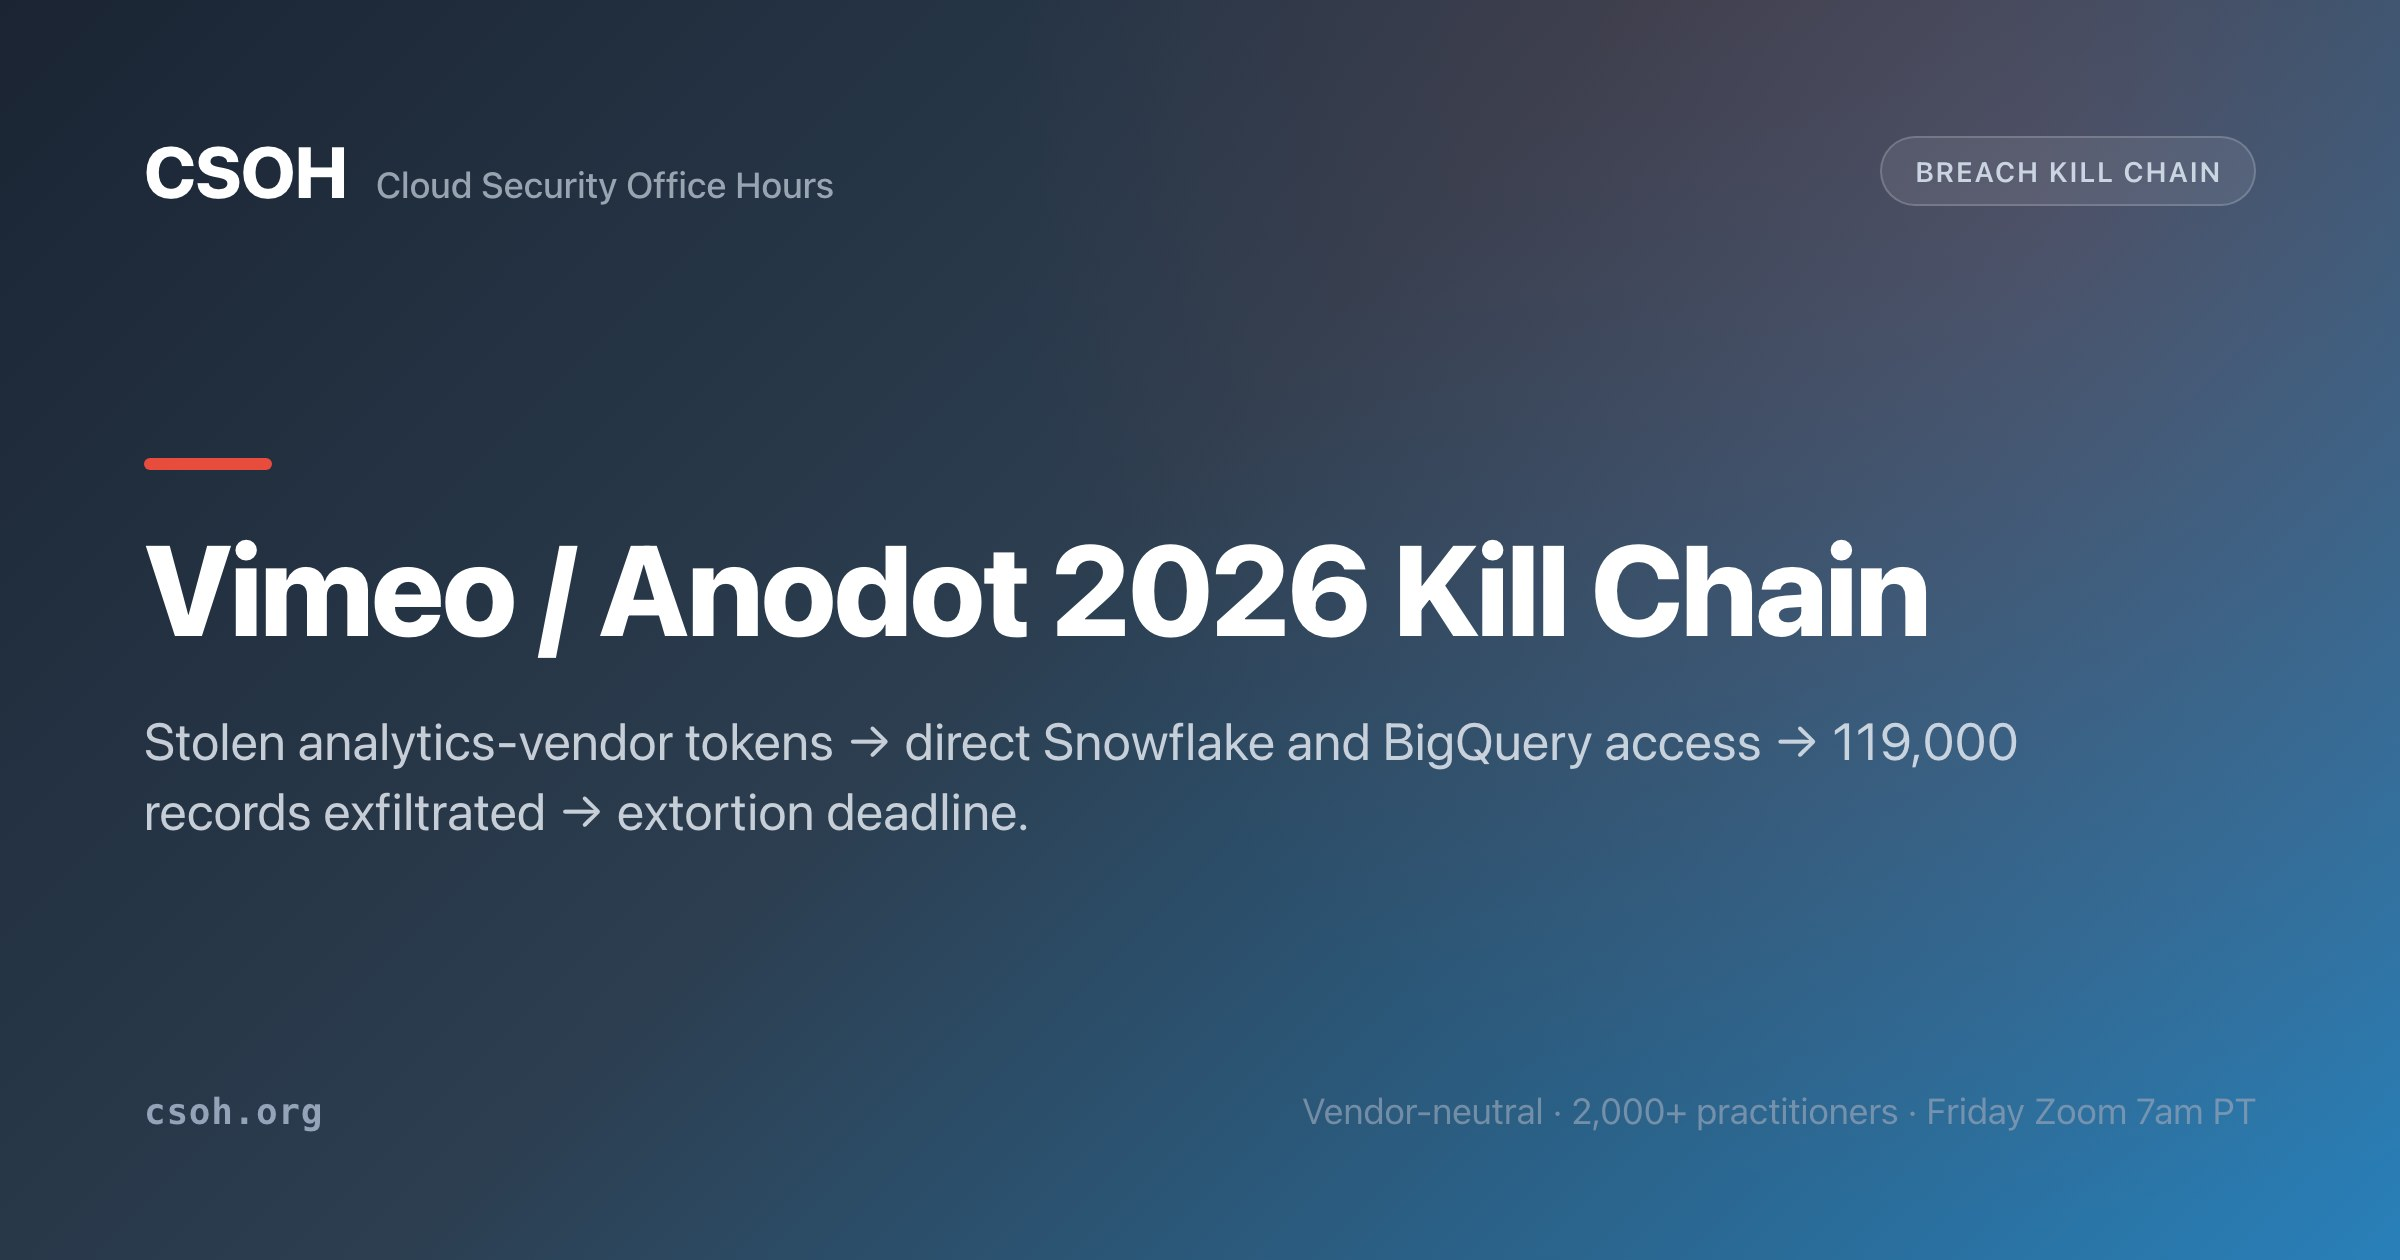
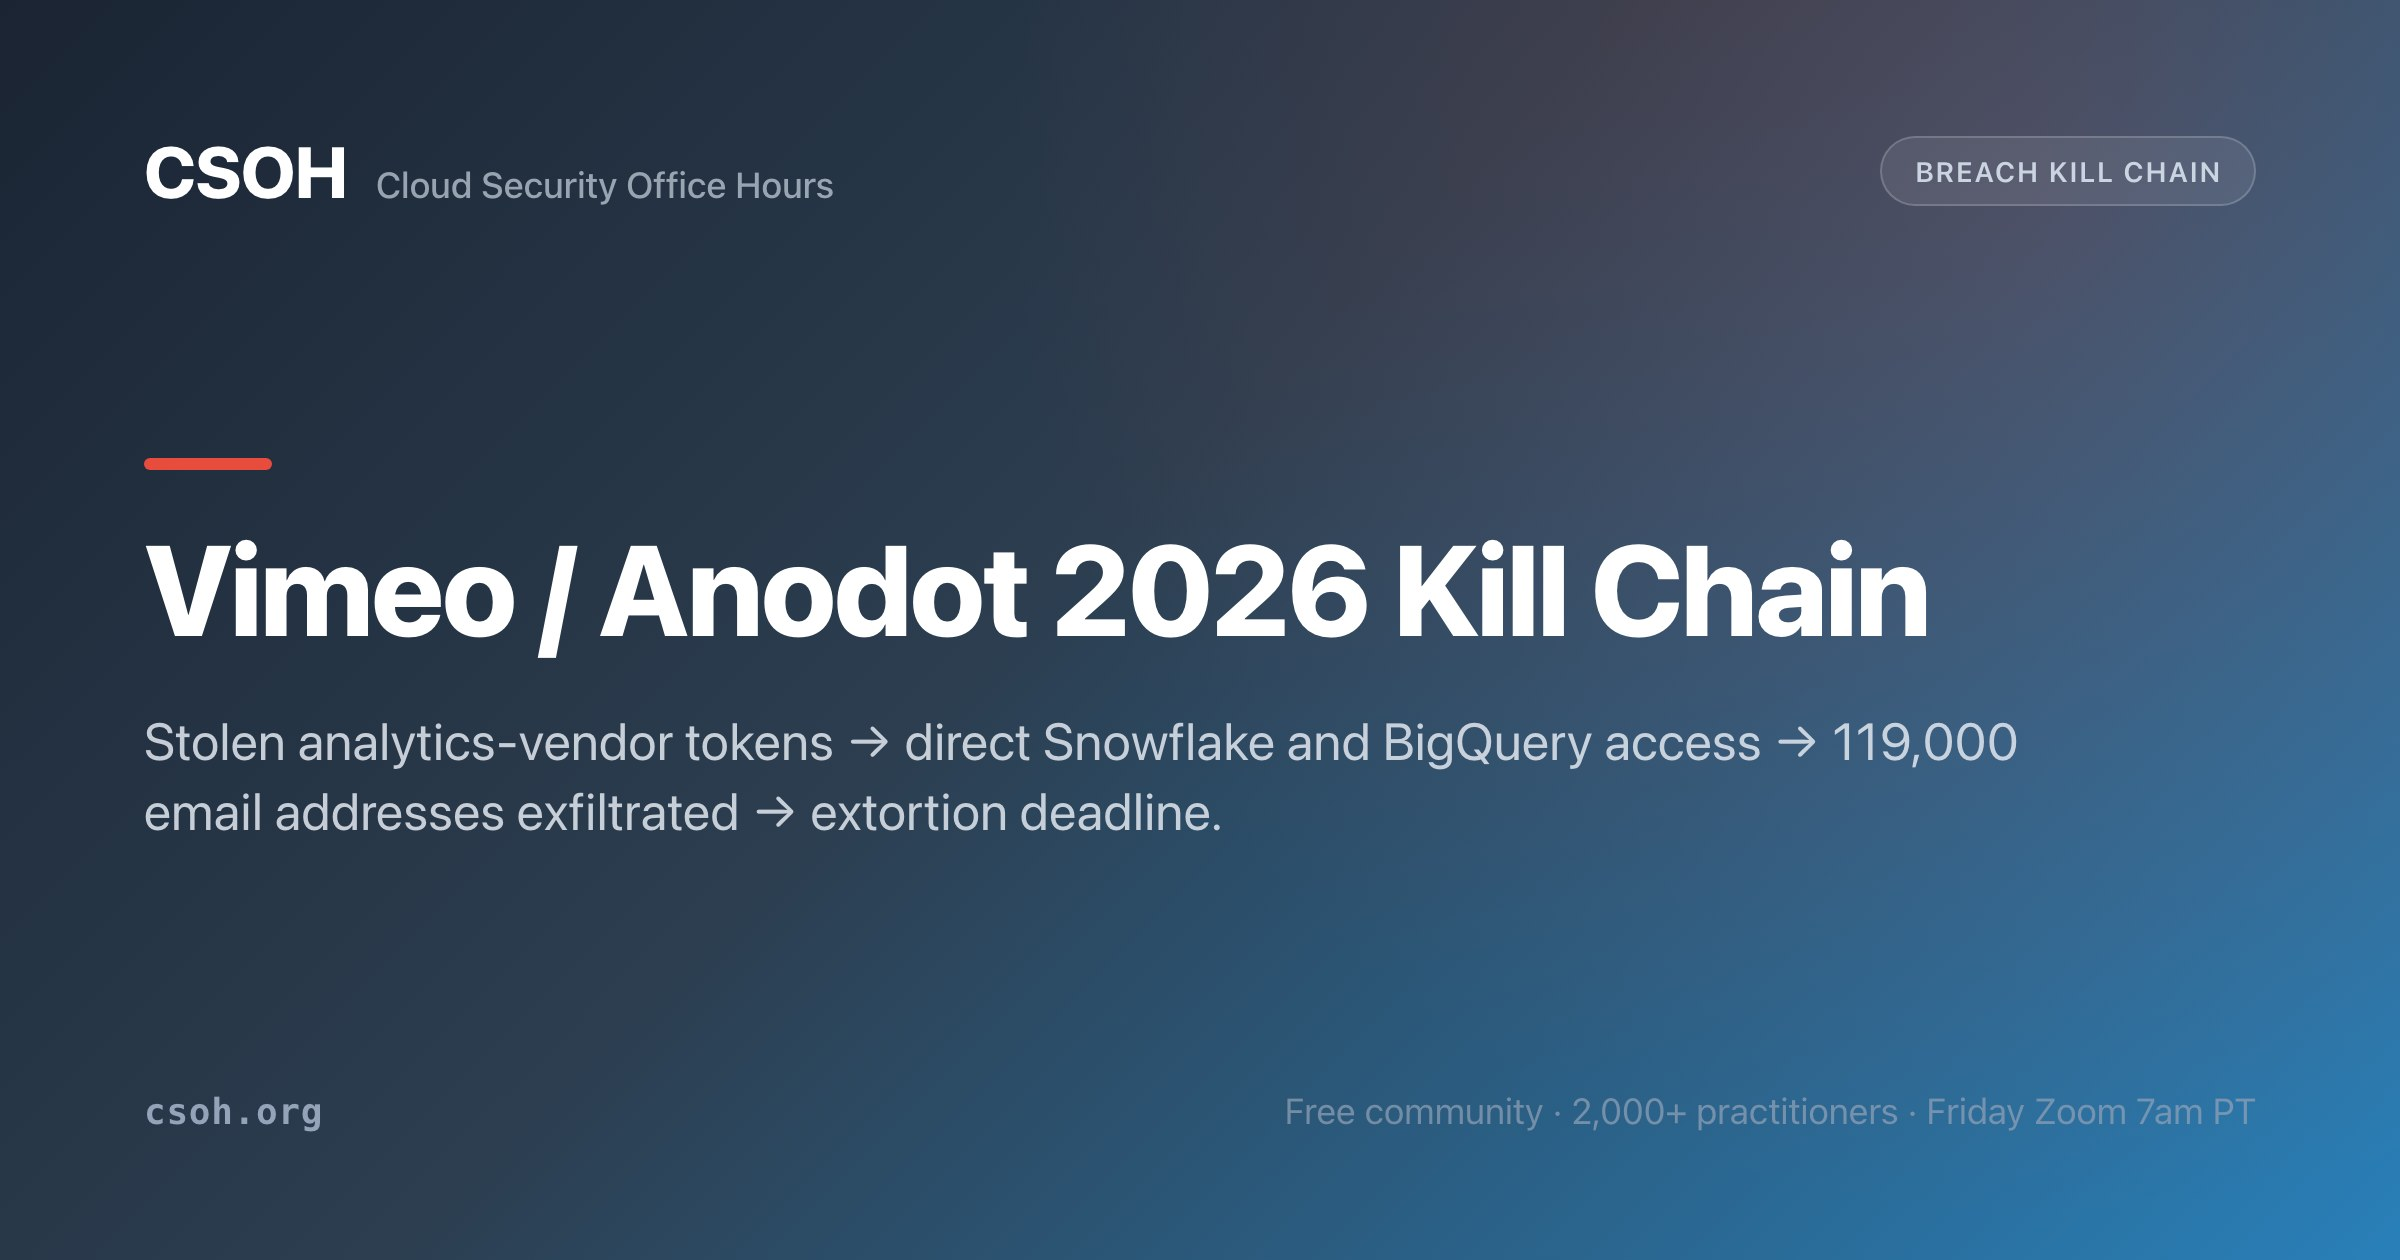
breaches: Vimeo's 119,000 is email addresses everywhere it is repeated
The Vimeo page now credits 119,000 to Have I Been Pwned as unique email
addresses, not records. The timeline card and its JSON-LD name, the
threat-research blurb and the social card text still said "records"; they
now follow the page, and the Vimeo social card is regenerated.

Changed region(s): [[0.0625, 0.619, 0.5, 0.681], [0.5312, 0.8667, 0.6562, 0.8976]]

diff --git a/breach-timeline.html b/breach-timeline.html
@@ -219,7 +219,7 @@
       "@type": "ListItem",
       "position": 21,
       "url": "https://csoh.org/breaches/vimeo-anodot-shinyhunters.html",
-      "name": "Vimeo / Anodot - Stolen Analytics Vendor Tokens → Direct Snowflake and BigQuery Access → 119,000 Records Exfiltrated → Extortion"
+      "name": "Vimeo / Anodot - Stolen Analytics Vendor Tokens → Direct Snowflake and BigQuery Access → 119,000 Email Addresses Exfiltrated → Extortion"
     },
     {
       "@type": "ListItem",
@@ -1000,7 +1000,7 @@
                     <span class="sev-badge sev-critical">Critical</span>
                     <span class="prov-tag prov-blue">Snowflake / BigQuery</span>
                 </div>
-                <h2 class="breach-card-title">Vimeo / Anodot - Stolen Analytics Vendor Tokens → Direct Snowflake and BigQuery Access → 119,000 Records Exfiltrated → Extortion</h2>
+                <h2 class="breach-card-title">Vimeo / Anodot - Stolen Analytics Vendor Tokens → Direct Snowflake and BigQuery Access → 119,000 Email Addresses Exfiltrated → Extortion</h2>
                 <p class="breach-card-summary">ShinyHunters never touched Vimeo's perimeter. They stole the tokens an analytics vendor held on Vimeo's behalf and queried its Snowflake and BigQuery instances directly, staying inside the integration's own permissions the entire time, which is exactly why no escalation alert could fire…</p>
                 <span class="breach-card-cta">Read kill chain →</span>
             </a>

diff --git a/threat-research.html b/threat-research.html
@@ -897,7 +897,7 @@
                     <div class="resource-card" data-no-preview data-icon="📊">
                         <h3>Vimeo / Anodot (2026)</h3>
                         <p>ShinyHunters used an analytics vendor's stolen tokens to query Vimeo's Snowflake and BigQuery
-                            directly, exposing about 119,000 records without touching Vimeo's perimeter. Our kill
+                            directly, exposing data that Have I Been Pwned counts at 119,000 unique email addresses, without touching Vimeo's perimeter. Our kill
                             chain.</p>
                         <div class="resource-tags">
                             <span class="tag">SaaS</span>

diff --git a/tools/generate_og_images.py b/tools/generate_og_images.py
@@ -716,7 +716,7 @@ PAGES = [
      "Breach Kill Chain"),
     ("breaches/vimeo-anodot-shinyhunters.html",
      "Vimeo / Anodot 2026 Kill Chain",
-     "Stolen analytics-vendor tokens → direct Snowflake and BigQuery access → 119,000 records exfiltrated → extortion deadline.",
+     "Stolen analytics-vendor tokens → direct Snowflake and BigQuery access → 119,000 email addresses exfiltrated → extortion deadline.",
      "Breach Kill Chain"),
     ("breaches/megalodon-github-actions.html",
      "Megalodon / GitHub Actions 2026 Kill Chain",
